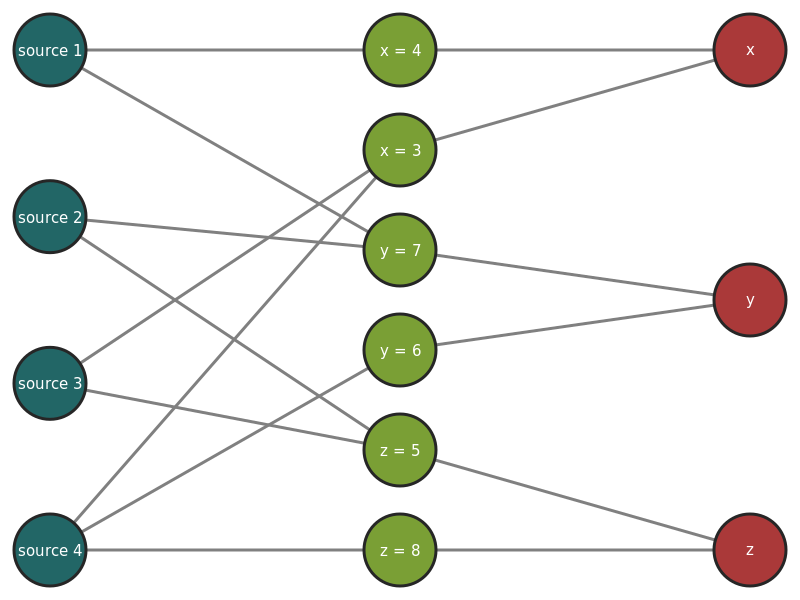
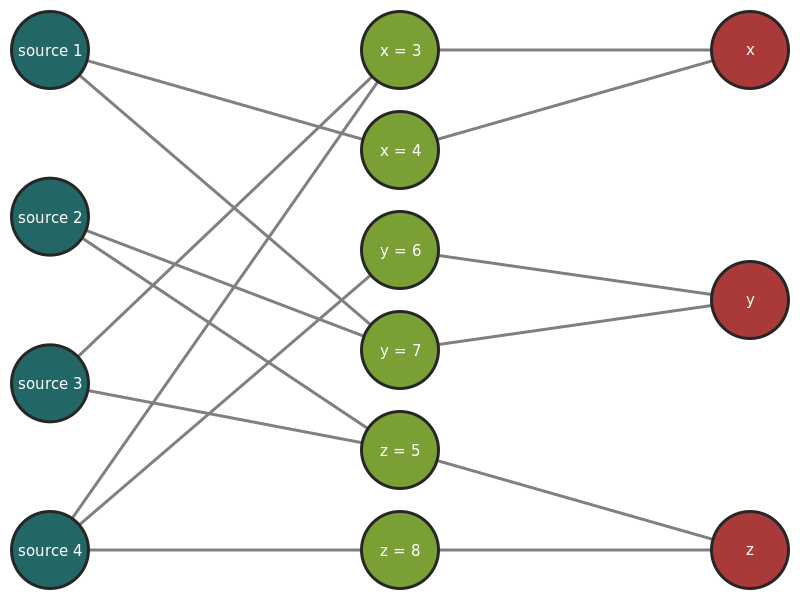
Sort nodes by their labels in graph generation
Fixes #35

diff --git a/truthdiscovery/graphs/draw.py b/truthdiscovery/graphs/draw.py
@@ -5,6 +5,14 @@ from truthdiscovery.graphs.colours import NodeType, GraphColourScheme
 from truthdiscovery.graphs.entities import Rectangle, Circle, Line, Label
 
 
+def _sort_keys_by_value(dct):
+    """
+    :param dct: a dictionary
+    :return: a list of the keys in ``dict`` sorted by their corresponding value
+    """
+    return sorted(dct, key=lambda key: dct[key])
+
+
 class GraphRenderer:
     """
     Create an image that shows a graph representation of a truth-discovery
@@ -52,12 +60,12 @@ class GraphRenderer:
         available_height = self.height - 2 * self.offset
         return self.offset + available_height * index / (num_nodes - 1)
 
-    def get_source_coords(self, source_id):
-        y = self._get_y_coord(source_id, self.dataset.num_sources)
+    def get_source_coords(self, index):
+        y = self._get_y_coord(index, self.dataset.num_sources)
         return (self.offset, y)
 
-    def get_var_coords(self, var_id):
-        y = self._get_y_coord(var_id, self.dataset.num_variables)
+    def get_var_coords(self, index):
+        y = self._get_y_coord(index, self.dataset.num_variables)
         return (self.width - self.offset, y)
 
     def get_claim_coords(self, index):
@@ -108,47 +116,70 @@ class GraphRenderer:
         # Set offset, which depends on radius
         self.offset = max_px_per_node / 2
 
-        # We want to position claims so that claims for the same variable are
-        # next to each other: sort claims by their variable ID and construct a
-        # map claim ID -> index to do this
-        claim_indexes = {}
-        var_claim_pairs = (
-            (var_id, claim_id)
-            for (var_id, _), claim_id in self.dataset.claim_ids.items()
-        )
-        for i, (_, claim_id) in enumerate(sorted(var_claim_pairs)):
-            claim_indexes[claim_id] = i
+        # Get labels for nodes
+        source_labels = {}
+        var_labels = {}
+        claim_labels = {}
+
+        for s_id in self.dataset.source_ids.values():
+            source_labels[s_id] = self.get_source_label(s_id)
+        for var_id in self.dataset.var_ids.values():
+            var_labels[var_id] = self.get_var_label(var_id)
+        for ((var_id, val_hash), claim_id) in self.dataset.claim_ids.items():
+            claim_labels[claim_id] = self.get_claim_label(var_id, val_hash)
+
+        # Get y-coordinates for all nodes. We sort nodes of each type by their
+        # label to determine the ordering
+        source_coords = {}
+        var_coords = {}
+        claim_coords = {}
+        for i, s_id in enumerate(_sort_keys_by_value(source_labels)):
+            source_coords[s_id] = self.get_source_coords(i)
+        for i, var_id in enumerate(_sort_keys_by_value(var_labels)):
+            var_coords[var_id] = self.get_var_coords(i)
+        # For claims, we sort first by variable label and then by claim label:
+        # this ensures that claims for the same variable are all next to each
+        # other
+        claim_sort_keys = {}
+        for ((var_id, _), claim_id) in self.dataset.claim_ids.items():
+            sort_key = (var_labels[var_id], claim_labels[claim_id])
+            claim_sort_keys[claim_id] = sort_key
+        for i, claim_id in enumerate(_sort_keys_by_value(claim_sort_keys)):
+            claim_coords[claim_id] = self.get_claim_coords(i)
 
         # Draw edges between sources and claims
         for s_id, claim_id in np.transpose(np.nonzero(self.dataset.sc)):
-            start = self.get_source_coords(s_id)
-            end = self.get_claim_coords(claim_indexes[claim_id])
-            yield from self.compile_edge(start, end)
+            yield from self.compile_edge(
+                source_coords[s_id], claim_coords[claim_id]
+            )
 
         # Draw claims, variables and sources
         for (var_id, val_hash), claim_id in self.dataset.claim_ids.items():
             # Draw edge from claim to variable
-            claim_coords = self.get_claim_coords(claim_indexes[claim_id])
-            var_coords = self.get_var_coords(var_id)
-            yield from self.compile_edge(claim_coords, var_coords)
+            yield from self.compile_edge(
+                claim_coords[claim_id], var_coords[var_id]
+            )
 
-            label = self.get_claim_label(var_id, val_hash)
+            # Draw claim
             hint = (
                 self.dataset.var_ids.inverse[var_id],      # variable name
                 self.dataset.val_hashes.inverse[val_hash]  # value
             )
             yield from self.compile_node(
-                NodeType.CLAIM, label, claim_coords, hint
+                NodeType.CLAIM, claim_labels[claim_id], claim_coords[claim_id],
+                hint
             )
 
+        # Variables
         for var, var_id in self.dataset.var_ids.items():
-            label = self.get_var_label(var_id)
-            coords = self.get_var_coords(var_id)
+            coords = var_coords[var_id]
+            label = var_labels[var_id]
             yield from self.compile_node(NodeType.VARIABLE, label, coords, var)
 
+        # Sources
         for source, s_id in self.dataset.source_ids.items():
-            label = self.get_source_label(s_id)
-            coords = self.get_source_coords(s_id)
+            coords = source_coords[s_id]
+            label = source_labels[s_id]
             yield from self.compile_node(
                 NodeType.SOURCE, label, coords, source
             )

diff --git a/truthdiscovery/test/test_drawing.py b/truthdiscovery/test/test_drawing.py
@@ -1,5 +1,6 @@
 from io import BytesIO, StringIO
 import json
+from operator import attrgetter
 
 import imageio
 import pytest
@@ -29,6 +30,28 @@ from truthdiscovery.utils import FixedIterator
 from truthdiscovery.test.utils import is_valid_png, is_valid_gif
 
 
+class ExampleColourScheme(GraphColourScheme):
+    colours = {
+        NodeType.SOURCE: (0.1, 0.1, 0.1),
+        NodeType.CLAIM: (0.2, 0.2, 0.2),
+        NodeType.VARIABLE: (0.3, 0.3, 0.3),
+        "edge": (0.4, 0.4, 0.4),
+        "label": (0.5, 0.5, 0.5),
+        "border": (0.6, 0.6, 0.6),
+        "background": (0.7, 0.7, 0.7)
+    }
+
+    def get_node_colour(self, node_type, _hints):
+        cs = self.colours
+        return cs[node_type], cs["label"], cs["border"]
+
+    def get_background_colour(self):
+        return self.colours["background"]
+
+    def get_edge_colour(self):
+        return self.colours["edge"]
+
+
 class BaseTest:
     @pytest.fixture
     def dataset(self):
@@ -44,26 +67,6 @@ class BaseTest:
 
 class TestRendering(BaseTest):
     def test_entity_positioning(self, dataset):
-        colours = {
-            NodeType.SOURCE: (0.1, 0.1, 0.1),
-            NodeType.CLAIM: (0.2, 0.2, 0.2),
-            NodeType.VARIABLE: (0.3, 0.3, 0.3),
-            "edge": (0.4, 0.4, 0.4),
-            "label": (0.5, 0.5, 0.5),
-            "border": (0.6, 0.6, 0.6),
-            "background": (0.7, 0.7, 0.7)
-        }
-
-        class ExampleColourScheme(GraphColourScheme):
-            def get_node_colour(cself, node_type, _hints):
-                return colours[node_type], colours["label"], colours["border"]
-
-            def get_background_colour(self):
-                return colours["background"]
-
-            def get_edge_colour(self):
-                return colours["edge"]
-
         cs = ExampleColourScheme()
         rend = GraphRenderer(width=100, height=50, colours=cs)
         ents = list(rend.compile(dataset))
@@ -77,6 +80,7 @@ class TestRendering(BaseTest):
             + 3 * 2  # variables
         )
 
+        colours = ExampleColourScheme.colours
         bgs = [e for e in ents if e.colour == colours["background"]]
         assert len(bgs) == 1
         assert isinstance(bgs[0], Rectangle)
@@ -116,6 +120,55 @@ class TestRendering(BaseTest):
         # Check y positioning
         y_coords = sorted(y for x, y in source_coords)
         assert y_coords == [6.25, 18.75, 31.25, 43.75]
+
+    def test_node_ordering(self):
+        # Construct a dataset where claim tuples are not sorted by source,
+        # variable or value
+        dataset = Dataset((
+            ("source 4", "z", 9),
+            ("source 3", "x", 4),
+            ("source 1", "x", 1),
+            ("source 1", "y", 2),
+            ("source 2", "x", 6),
+            ("source 2", "z", 3)
+        ))
+
+        # Claims should be sorted first by their variable's label, and then by
+        # their own label. Change the default claim label method so that we can
+        # distinguish between the correct behaviour and when the claims are
+        # incorrectly sorted only by their own labels.
+        class ExampleGraphRenderer(GraphRenderer):
+            def get_claim_label(rend_self, var_id, val_hash):
+                return "{val} = {var}".format(
+                    val=rend_self.dataset.val_hashes.inverse[val_hash],
+                    var=rend_self.dataset.var_ids.inverse[var_id]
+                )
+
+        rend = ExampleGraphRenderer(colours=ExampleColourScheme())
+        ents = list(rend.compile(dataset))
+
+        c = ExampleColourScheme.colours
+        source_ls = [e.label for e in ents if e.colour == c[NodeType.SOURCE]]
+        var_ls = [e.label for e in ents if e.colour == c[NodeType.VARIABLE]]
+        claim_ls = [e.label for e in ents if e.colour == c[NodeType.CLAIM]]
+
+        source_ls.sort(key=attrgetter("y"))
+        var_ls.sort(key=attrgetter("y"))
+        claim_ls.sort(key=attrgetter("y"))
+
+        sorted_sources = [l.text for l in source_ls]
+        sorted_vars = [l.text for l in var_ls]
+        sorted_claims = [l.text for l in claim_ls]
+
+        assert sorted_sources == [
+            "source 1", "source 2", "source 3", "source 4"
+        ]
+        assert sorted_vars == ["x", "y", "z"]
+        assert sorted_claims == [
+            "1 = x", "4 = x", "6 = x",
+            "2 = y",
+            "3 = z", "9 = z"
+        ]
 
     def test_invalid_node_size(self, dataset):
         invalid_sizes = (-1, -0.00001, 0, 1.00001, 10)
